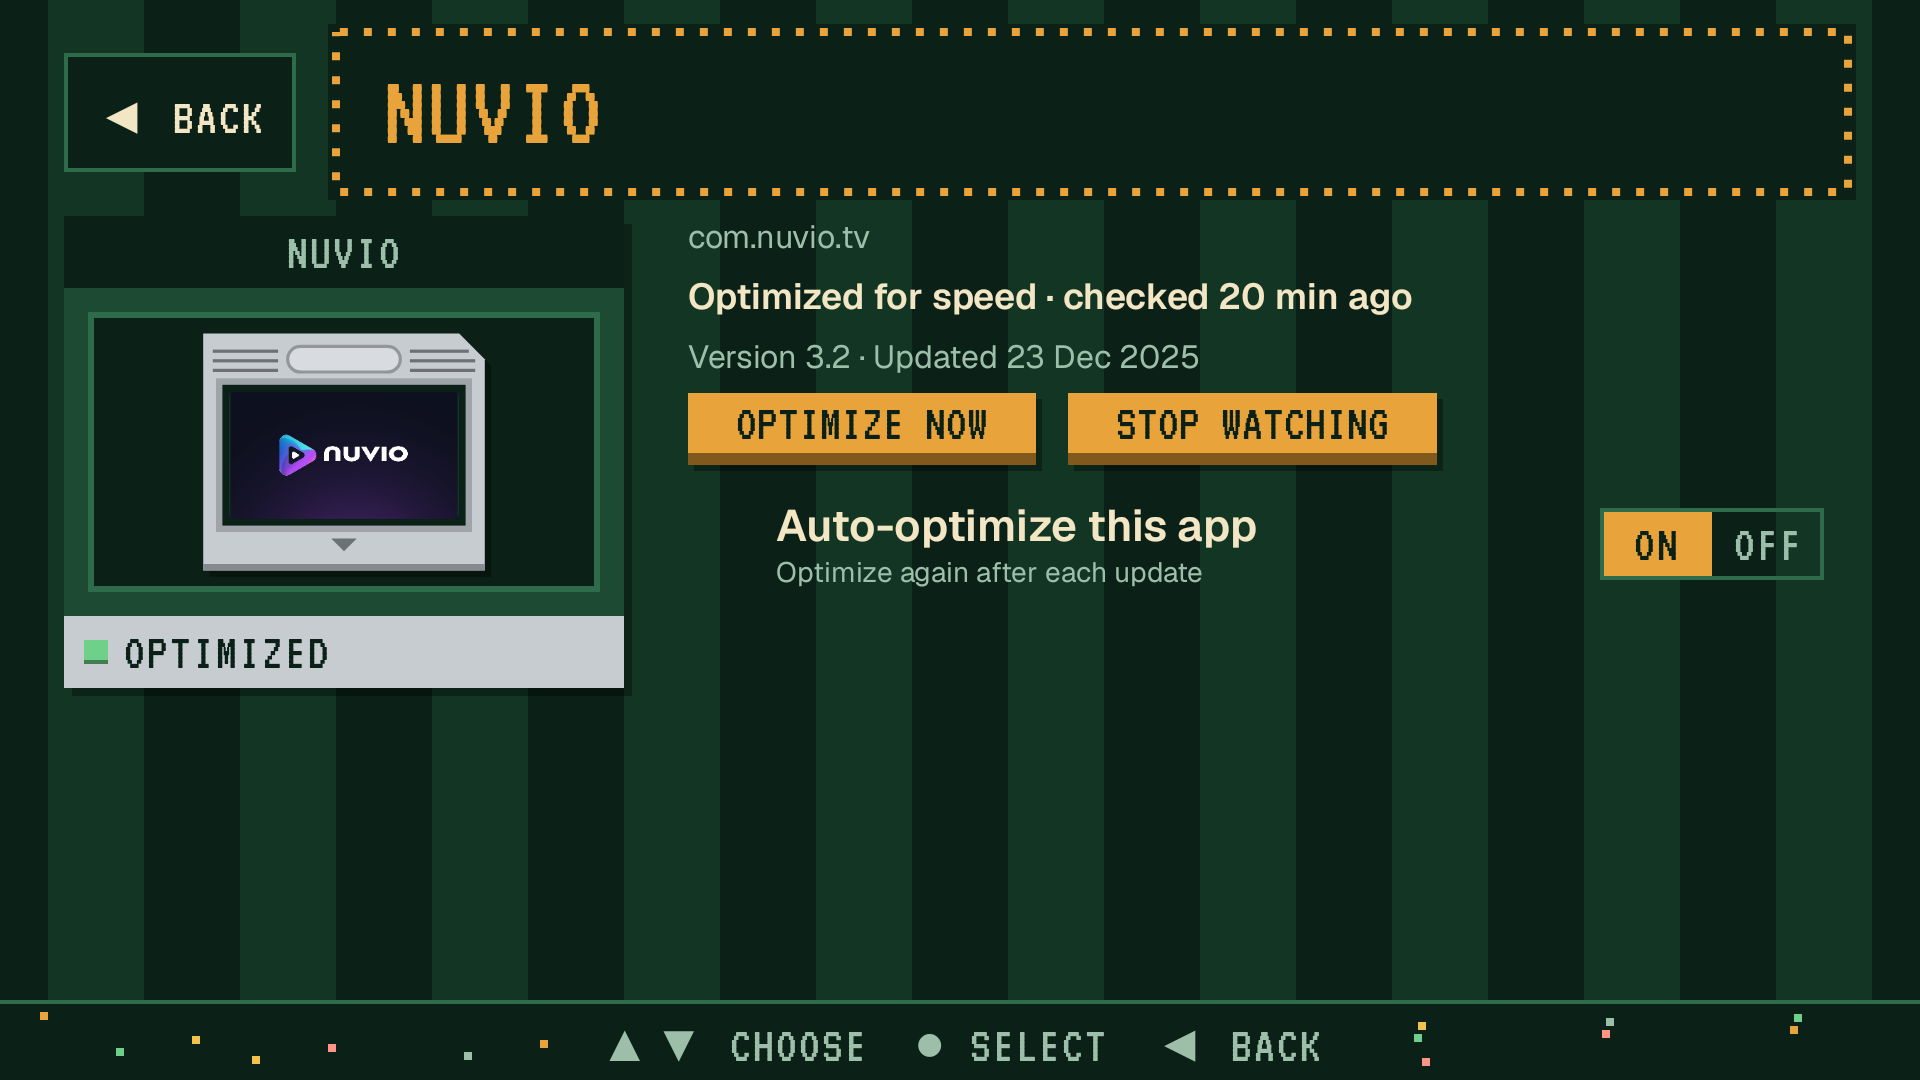
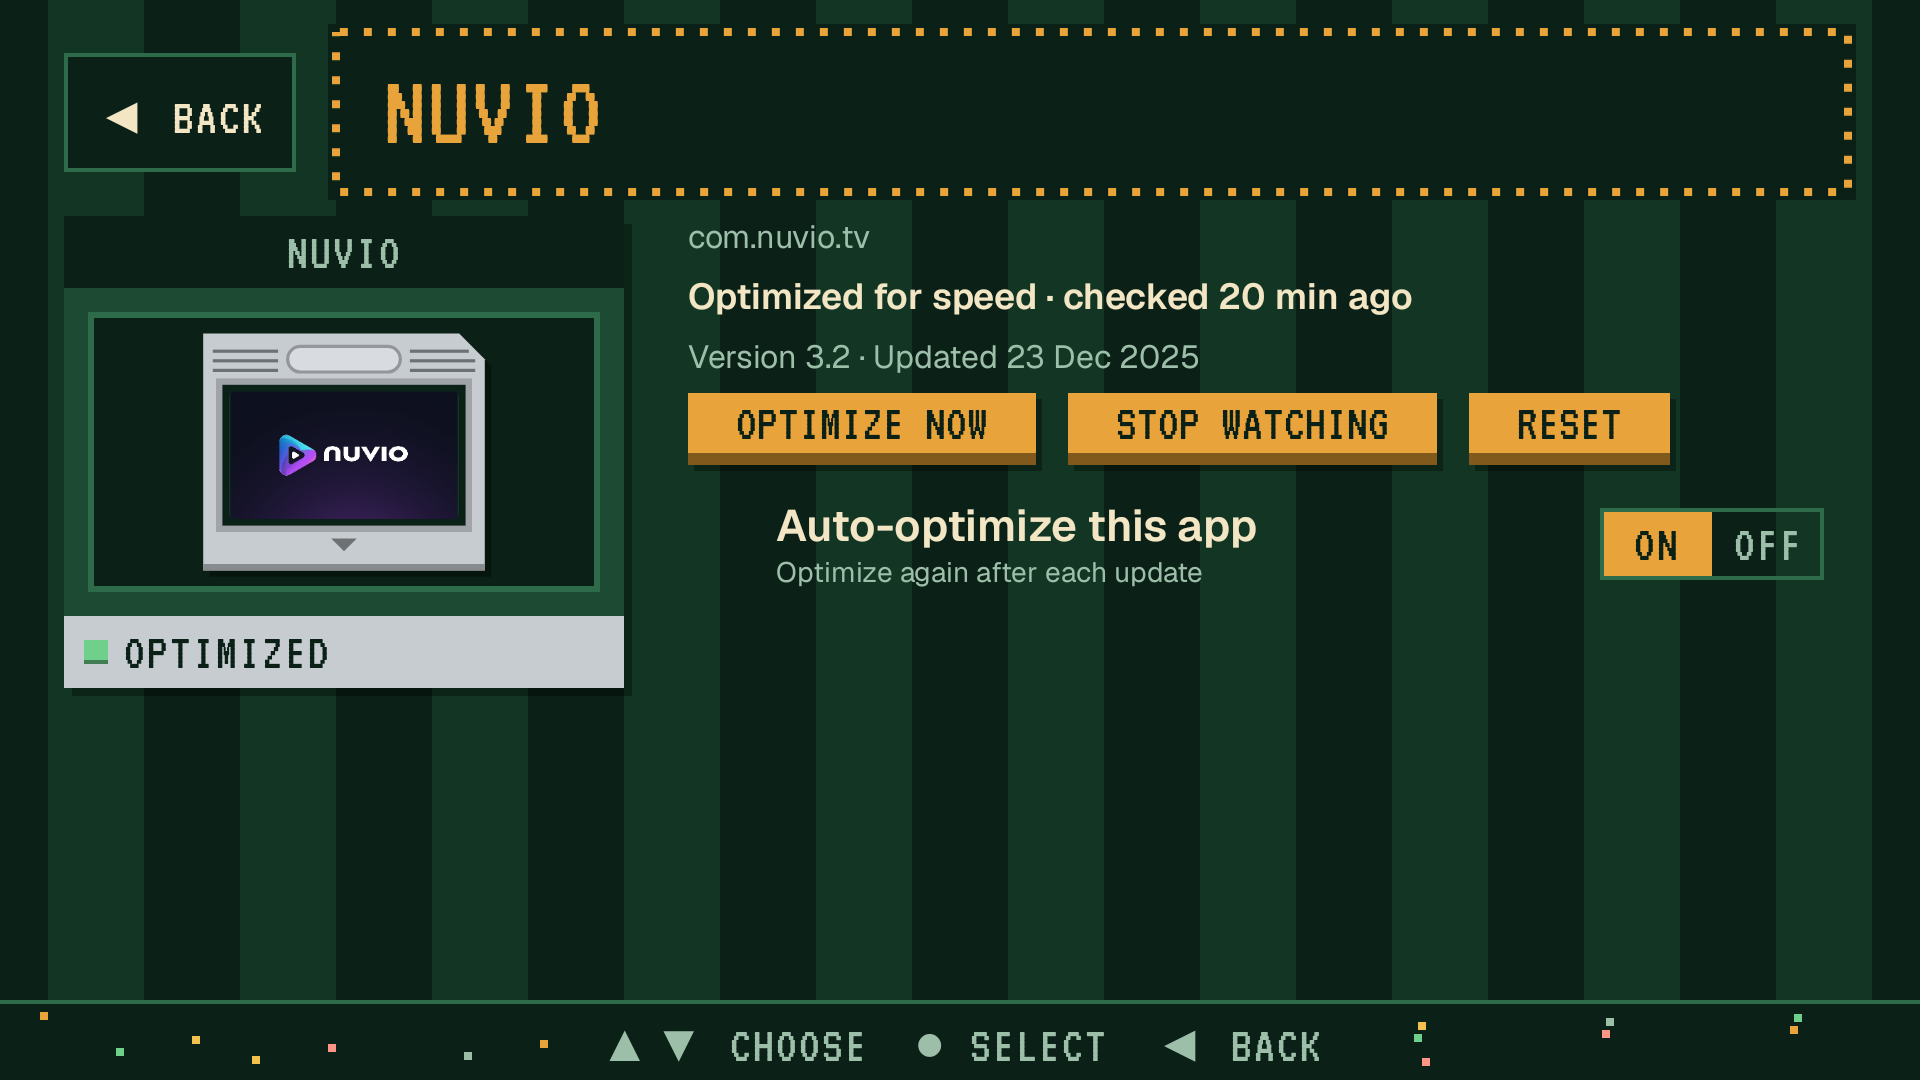
Reset and what speed compile does (B-05) (#13)
* Reset and what speed compile does (B-05)

Add resetCommand and Optimizer.reset (cmd package compile --reset), a Reset
button on App detail that resets and unwatches the app, and two Help entries
on what speed compile changes and how to undo it. Screenshot tests cover both.

* Reset with -r install so it works from shell before Android 14 (B-05)

* Reset: unwatch first, survive Back, ignore repeat presses, report timeouts; a reset app no longer reads as Compiled (B-05)

---------

Changed region(s): [[0.75, 0.3667, 0.875, 0.4278]]

diff --git a/app/src/main/kotlin/dev/speedcompiler/tv/ui/apps/AppDetailScreen.kt b/app/src/main/kotlin/dev/speedcompiler/tv/ui/apps/AppDetailScreen.kt
@@ -9,6 +9,11 @@ import androidx.compose.foundation.layout.size
 import androidx.compose.runtime.Composable
 import androidx.compose.runtime.collectAsState
 import androidx.compose.runtime.getValue
+import androidx.compose.runtime.mutableStateOf
+import androidx.compose.runtime.setValue
+import kotlinx.coroutines.CancellationException
+import kotlinx.coroutines.NonCancellable
+import kotlinx.coroutines.withContext
 import androidx.compose.runtime.produceState
 import androidx.compose.runtime.remember
 import androidx.compose.runtime.rememberCoroutineScope
@@ -57,16 +62,31 @@ fun AppDetailScreen(packageName: String, go: (String) -> Unit, onBack: () -> Uni
     val queue by remember(deps) { deps.scheduler.queue }.collectAsState(emptyList())
     val watched by remember(deps) { deps.watched }.collectAsState(emptyList())
     val history by remember(deps) { deps.scheduler.history }.collectAsState(emptyList())
+    val resets by remember(deps) { deps.resets }.collectAsState(emptyList())
     val now = rememberNow(deps)
     val scope = rememberCoroutineScope()
     val optimizeNow = rememberOptimizeNow(deps, go)
+    var resetNote by remember(packageName) { mutableStateOf<String?>(null) }
     val mine = watched.firstOrNull { it.packageName == packageName }
     AppDetailContent(
         loaded ?: AppInfo(packageName, packageName),
-        mine, optimizedAtMap(watched, history)[packageName], queue.firstOrNull { it.item.packageName == packageName }, now, deps.zone,
+        mine, optimizedAtMap(watched, history, resets)[packageName], queue.firstOrNull { it.item.packageName == packageName }, now, deps.zone,
         onOptimize = { optimizeNow(packageName) },
         onToggleWatch = { scope.launch { if (mine != null) deps.scheduler.unwatch(packageName) else deps.scheduler.watch(packageName) } },
         onAuto = { scope.launch { deps.setAutoOptimize(packageName, it) } },
+        onReset = {
+            if (resetNote != RESETTING) scope.launch {
+                resetNote = RESETTING
+                // Unwatch first so a queued compile cannot redo speed after the reset; NonCancellable so Back does not stop it halfway.
+                resetNote = try {
+                    withContext(NonCancellable) { deps.scheduler.unwatch(packageName); deps.reset(packageName) }.detail
+                } catch (e: Exception) {
+                    if (e is CancellationException) throw e
+                    "Didn't reset: ${e.message ?: "unexpected error"}."
+                }
+            }
+        },
+        resetNote = resetNote,
         onBack = onBack,
         runs = history.filter { it.packageName == packageName },
     )
@@ -85,6 +105,8 @@ fun AppDetailContent(
     onAuto: (Boolean) -> Unit,
     onBack: () -> Unit = {},
     runs: List<QueueItem> = emptyList(),
+    onReset: () -> Unit = {},
+    resetNote: String? = null,
 ) {
     val mem = rememberFocusMemory("optimize")
     val result = resultFor(entry, watched?.lastResult, optimizedAt)
@@ -125,7 +147,9 @@ fun AppDetailContent(
                     Row(horizontalArrangement = Arrangement.spacedBy(Space.x2)) {
                         ArcadeButton("Optimize now", onOptimize, Modifier.remembersFocus(mem, "optimize"))
                         ArcadeButton(if (watched != null) "Stop watching" else "Watch", onToggleWatch, Modifier.remembersFocus(mem, "watch"))
+                        ArcadeButton("Reset", onReset, Modifier.remembersFocus(mem, "reset"))
                     }
+                    if (resetNote != null) Text(resetNote, style = MaterialTheme.typography.bodyMedium)
                     if (watched != null) {
                         OperatorRow(
                             "Auto-optimize this app", onClick = { onAuto(!watched.autoOptimize) },
@@ -142,3 +166,5 @@ fun AppDetailContent(
         }
     }
 }
+
+private const val RESETTING = "Resetting..."

diff --git a/app/src/main/kotlin/dev/speedcompiler/tv/ui/apps/AppsModel.kt b/app/src/main/kotlin/dev/speedcompiler/tv/ui/apps/AppsModel.kt
@@ -3,6 +3,7 @@ package dev.speedcompiler.tv.ui.apps
 import android.content.Context
 import android.content.pm.ApplicationInfo
 import android.graphics.Bitmap
+import dev.speedcompiler.tv.engine.OptimizeResult
 import androidx.core.graphics.drawable.toBitmap
 import android.media.AudioManager
 import androidx.compose.runtime.Composable
@@ -17,6 +18,7 @@ import androidx.compose.ui.platform.LocalContext
 import dev.speedcompiler.tv.SpeedApp
 import dev.speedcompiler.tv.theme.Tone
 import dev.speedcompiler.tv.watch.Eta
+import dev.speedcompiler.tv.watch.Event
 import dev.speedcompiler.tv.watch.QueueEntry
 import dev.speedcompiler.tv.watch.QueueState
 import dev.speedcompiler.tv.watch.Scheduler
@@ -29,6 +31,7 @@ import java.time.ZoneId
 import java.time.format.DateTimeFormatter
 import kotlinx.coroutines.Dispatchers
 import kotlinx.coroutines.flow.Flow
+import kotlinx.coroutines.flow.flowOf
 import kotlinx.coroutines.withContext
 
 data class AppInfo(
@@ -51,6 +54,10 @@ class AppsDeps(
     val zone: ZoneId = ZoneId.systemDefault(),
     /** One package, for the detail screen; falls back to scanning the list. */
     val loadApp: suspend (String) -> AppInfo? = { p -> loadApps().firstOrNull { it.packageName == p } },
+    /** Undoes speed compile for one package. */
+    val reset: suspend (String) -> OptimizeResult = { OptimizeResult(false, "Didn't reset: not available.") },
+    /** Successful resets, so a reset app no longer reads as compiled. */
+    val resets: Flow<List<Event>> = flowOf(emptyList()),
 )
 
 /** The app's status word: live queue state first, then the stored result; a finished job with no stored result counts as Compiled. */
@@ -65,12 +72,13 @@ fun pillFor(entry: QueueEntry?, lastResult: String?, optimizedAt: Long?, now: Lo
     return (r.label + if (eta.isEmpty()) "" else " · $eta") to Tone.Warn
 }
 
-/** Latest optimize time per package, from the watched row or the newest finished job (covers unwatched apps). */
-fun optimizedAtMap(watched: List<WatchedApp>, history: List<QueueItem>): Map<String, Long> {
+/** Latest optimize time per package, from the watched row or the newest finished job (covers unwatched apps); a later Reset clears it. */
+fun optimizedAtMap(watched: List<WatchedApp>, history: List<QueueItem>, resets: List<Event> = emptyList()): Map<String, Long> {
     val m = mutableMapOf<String, Long>()
     fun put(p: String, t: Long?) { if (t != null && t > (m[p] ?: Long.MIN_VALUE)) m[p] = t }
     watched.forEach { put(it.packageName, it.lastOptimizedAt) }
     history.filter { it.state == QueueState.DONE }.forEach { put(it.packageName, it.finishedAt) }
+    resets.forEach { r -> val p = r.packageName ?: return@forEach; if ((m[p] ?: Long.MAX_VALUE) <= r.timeMillis) m.remove(p) }
     return m
 }
 
@@ -108,6 +116,8 @@ fun rememberAppsDeps(): AppsDeps {
             watched = dao.all(),
             musicActive = { context.getSystemService(AudioManager::class.java).isMusicActive },
             setAutoOptimize = dao::setAutoOptimize,
+            reset = { graph.optimizer.reset(it) },
+            resets = graph.database.events().resets(),
         )
     }
 }

diff --git a/app/src/test/kotlin/dev/speedcompiler/tv/ui/apps/AppsScreensTest.kt b/app/src/test/kotlin/dev/speedcompiler/tv/ui/apps/AppsScreensTest.kt
@@ -193,6 +193,23 @@ class AppsScreensTest : ComposeTestBase() {
     }
 
     @Test
+    fun resetRunsAndUnwatches() {
+        val reset = mutableListOf<String>()
+        watched.value = listOf(WatchedApp("a.alpha", "f"))
+        detailScreen(d = AppsDeps(
+            loadApps = { apps }, scheduler = scheduler, watched = watched, musicActive = { music },
+            setAutoOptimize = { _, _ -> }, now = { 1_800_000_000_000 },
+            reset = { reset += it; dev.speedcompiler.tv.engine.OptimizeResult(true, "Reset done.") },
+        ))
+        rule.onNodeWithText("Reset", ignoreCase = true).assertIsDisplayed()
+        rule.onRoot().captureRoboImage("build/outputs/roborazzi/app_detail_reset.png")
+        click("Reset")
+        assertEquals(listOf("a.alpha"), reset)
+        assertEquals(listOf("unwatch:a.alpha"), scheduler.calls)
+        rule.onNodeWithText("Reset done.").assertIsDisplayed()
+    }
+
+    @Test
     fun unwatchedDetailOffersWatch() {
         detailScreen()
         rule.onNodeWithText("Auto-optimize this app").assertDoesNotExist()
@@ -285,6 +302,17 @@ class AppsScreensTest : ComposeTestBase() {
         assertEquals(mapOf("a.alpha" to 80L), optimizedAtMap(listOf(WatchedApp("a.alpha", "f", lastOptimizedAt = 80)), listOf(done)))
     }
 
+    @Test
+    fun aLaterResetClearsCompiled() {
+        val done = dev.speedcompiler.tv.watch.QueueItem(
+            1, "a.alpha", dev.speedcompiler.tv.watch.QueueSource.MANUAL,
+            dev.speedcompiler.tv.watch.QueueState.DONE, enqueuedAt = 1, finishedAt = 50,
+        )
+        fun reset(at: Long) = dev.speedcompiler.tv.watch.Event(timeMillis = at, packageName = "a.alpha", kind = "reset_done", message = "")
+        assertEquals(emptyMap<String, Long>(), optimizedAtMap(emptyList(), listOf(done), listOf(reset(60))))
+        assertEquals(mapOf("a.alpha" to 50L), optimizedAtMap(emptyList(), listOf(done), listOf(reset(40)))) // optimized again after the reset
+    }
+
     private fun content(
         list: List<AppInfo> = apps, loading: Boolean = false, selecting: Boolean = false, picked: Set<String> = emptySet(),
         watchedNow: Map<String, WatchedApp> = emptyMap(), onWatch: (List<String>) -> Unit = {}, onQueue: (List<String>) -> Unit = {},
@@ -345,7 +373,7 @@ class AppsScreensTest : ComposeTestBase() {
     fun detailCardTakesNoFocus() {
         detailScreen()
         rule.onNodeWithContentDescription("Alpha, New").assertExists().assert(SemanticsMatcher.keyNotDefined(SemanticsProperties.Focused))
-        rule.onAllNodes(isFocusable()).assertCountEquals(3) // Back, Optimize now, Watch; not the card
+        rule.onAllNodes(isFocusable()).assertCountEquals(4) // Back, Optimize now, Watch, Reset; not the card
         rule.onAllNodesWithText("Optimize now", ignoreCase = true).assertCountEquals(1)
     }
 

diff --git a/app/src/test/kotlin/dev/speedcompiler/tv/OptimizerTest.kt b/app/src/test/kotlin/dev/speedcompiler/tv/OptimizerTest.kt
@@ -7,6 +7,7 @@ import dev.speedcompiler.tv.engine.FakeClock
 import dev.speedcompiler.tv.engine.OptimizerImpl
 import dev.speedcompiler.tv.engine.compileCommand
 import dev.speedcompiler.tv.engine.parseCompilerFilter
+import dev.speedcompiler.tv.engine.resetCommand
 import dev.speedcompiler.tv.watch.Event
 import dev.speedcompiler.tv.watch.EventDao
 import kotlinx.coroutines.CompletableDeferred
@@ -35,6 +36,7 @@ class OptimizerTest {
     private class Events : EventDao {
         val rows = mutableListOf<Event>()
         override fun recent(limit: Int): Flow<List<Event>> = emptyFlow()
+        override fun resets(): Flow<List<Event>> = emptyFlow()
         override suspend fun insert(event: Event) { rows += event }
         override suspend fun pruneBefore(before: Long) { rows.removeAll { it.timeMillis < before } }
     }
@@ -165,6 +167,36 @@ class OptimizerTest {
     @Test fun rejectsBadIdInCommand() {
         assertEquals("cmd package compile -m speed -f com.a_b", compileCommand("com.a_b"))
         assertTrue(runCatching { compileCommand("a b") }.isFailure)
+    }
+
+    @Test fun resetCommandIsValidatedLikeCompile() {
+        assertEquals("cmd package compile -r install -f com.a_b", resetCommand("com.a_b"))
+        listOf("a b", "", "a;b", "a\nb", "a\$(x)", "a/b", "a-b").forEach {
+            assertTrue(it, runCatching { compileCommand(it) }.isFailure)
+            assertTrue(it, runCatching { resetCommand(it) }.isFailure)
+        }
+    }
+
+    @Test fun resetRunsTheCommandAndReportsTheOutcome() = runTest {
+        val shell = Shell()
+        val ev = Events()
+        val r = impl(shell, ev).reset("dev.speedcompiler.tv")
+        assertTrue(r.ok)
+        assertEquals(1, shell.compiles)
+        assertEquals("reset_done", ev.rows.single().kind)
+        val bad = impl(Shell(compile = "Failure\n__rc=1\n"), Events()).reset("dev.speedcompiler.tv")
+        assertFalse(bad.ok)
+        assertTrue(bad.detail.startsWith("Didn't reset"))
+        assertFalse(impl(shell, Events()).reset("a b").ok)
+        assertEquals(1, shell.compiles)
+    }
+
+    @Test fun resetTimesOutAsAFailure() = runTest {
+        val ev = Events()
+        val r = impl(Shell(compileDelay = 1_000), ev, timeout = 100).reset("dev.speedcompiler.tv")
+        assertFalse(r.ok)
+        assertTrue(r.detail.startsWith("Didn't reset"))
+        assertEquals("reset_failed", ev.rows.single().kind)
     }
 
     @Test fun timesOut() = runTest {

diff --git a/app/src/main/kotlin/dev/speedcompiler/tv/engine/OptimizerImpl.kt b/app/src/main/kotlin/dev/speedcompiler/tv/engine/OptimizerImpl.kt
@@ -53,6 +53,33 @@ class OptimizerImpl(
         return text
     }
 
+    override suspend fun reset(packageName: String): OptimizeResult {
+        if (!isValidPackageId(packageName)) return finish(null, false, "Didn't reset: that is not a valid app name.", "reset_failed")
+        val res = try {
+            withTimeout(timeoutMillis) { shell.run(resetCommand(packageName)) }
+        } catch (e: TimeoutCancellationException) {
+            return finish(packageName, false, "Didn't reset: the TV took too long.", "reset_failed")
+        } catch (e: CancellationException) {
+            throw e
+        } catch (e: AdbFailure.NotPaired) {
+            return finish(packageName, false, "Didn't reset: the TV no longer trusts this app. Choose Fix connection in Settings.", "reset_failed", terminal = true)
+        } catch (e: AdbFailure.NotAuthorized) {
+            return finish(packageName, false, "Didn't reset: the TV has not allowed this app. Accept the debugging prompt on the TV.", "reset_failed", terminal = true)
+        } catch (e: Exception) {
+            return finish(packageName, false, "Didn't reset: lost the connection to the TV.", "reset_failed", connectionLost = true)
+        } finally {
+            synchronized(dumpLock) { // the reset changes what a dump says
+                dumpGeneration++
+                dump = null
+            }
+        }
+        if (res.exitCode > 0 || !compileSucceeded(res.output)) {
+            val said = scrub(res.output.lineSequence().firstOrNull { it.isNotBlank() }?.trim())?.take(120)
+            return finish(packageName, false, "Didn't reset: the TV refused." + said?.let { " It said: $it" }.orEmpty(), "reset_failed")
+        }
+        return finish(packageName, true, "Reset done. The TV chooses how to run this app again.", "reset_done")
+    }
+
     private suspend fun compile(pkg: String): OptimizeResult {
         val res = try {
             withTimeout(timeoutMillis) { shell.run(compileCommand(pkg)) }

diff --git a/app/src/main/kotlin/dev/speedcompiler/tv/ui/apps/AppsScreen.kt b/app/src/main/kotlin/dev/speedcompiler/tv/ui/apps/AppsScreen.kt
@@ -142,11 +142,12 @@ fun AppsScreen(go: (String) -> Unit, onBack: () -> Unit, deps: AppsDeps = rememb
     val queue by remember(deps) { deps.scheduler.queue }.collectAsState(emptyList())
     val watched by remember(deps) { deps.watched }.collectAsState(emptyList())
     val history by remember(deps) { deps.scheduler.history }.collectAsState(emptyList())
+    val resets by remember(deps) { deps.resets }.collectAsState(emptyList())
     val now = rememberNow(deps)
     val scope = rememberCoroutineScope()
     val optimizeNow = rememberOptimizeNow(deps, go)
     AppsContent(
-        loaded.orEmpty(), queue.associateBy { it.item.packageName }, watched.associateBy { it.packageName }, optimizedAtMap(watched, history), now, deps.zone,
+        loaded.orEmpty(), queue.associateBy { it.item.packageName }, watched.associateBy { it.packageName }, optimizedAtMap(watched, history, resets), now, deps.zone,
         onOpen = { go(Routes.appDetail(it)) },
         onOptimize = optimizeNow,
         onQueue = { pkg -> scope.launch { deps.scheduler.enqueue(pkg, QueueSource.MANUAL) } },

diff --git a/app/src/main/kotlin/dev/speedcompiler/tv/ui/help/HelpScreen.kt b/app/src/main/kotlin/dev/speedcompiler/tv/ui/help/HelpScreen.kt
@@ -43,6 +43,8 @@ val helpEntries = listOf(
     HelpEntry("The TV did not answer", "Wireless debugging may have switched off. Reconnect, and if that fails turn it on again in Developer options.", Fix.Retry),
     HelpEntry("Optimizing did not finish", "The TV stopped or refused the job. Try again when the TV is idle."),
     HelpEntry("Optimized, but not checked", "This TV does not report the result. The app may still start faster."),
+    HelpEntry("What speed compile changes", "It uses more storage. The first launch after an app update is slower again until the app is optimized again. Results vary by app and TV."),
+    HelpEntry("How to undo it", "Open the app in Apps and choose Reset. Uninstalling Speed Compile does not undo it."),
     HelpEntry("The pairing code did not work", "Pairing codes expire. Get a new code on the TV and type all 6 digits."),
 )
 

diff --git a/app/src/test/kotlin/dev/speedcompiler/tv/ui/help/HelpScreenTest.kt b/app/src/test/kotlin/dev/speedcompiler/tv/ui/help/HelpScreenTest.kt
@@ -32,6 +32,13 @@ class HelpScreenTest : ComposeTestBase() {
         rule.onNodeWithText("Wireless debugging may have switched off. Reconnect, and if that fails turn it on again in Developer options.").assertIsDisplayed()
     }
 
+    @Test fun explainsWhatSpeedCompileChangesAndHowToUndoIt() {
+        rule.setContent { SpeedTheme { HelpContent(go = {}) } }
+        rule.onNodeWithText("What speed compile changes").assertIsDisplayed()
+        rule.onNodeWithText("How to undo it").assertIsDisplayed()
+        rule.onRoot().captureRoboImage("build/outputs/roborazzi/help_speed_compile.png")
+    }
+
     @Test fun everyFixRoutesToItsDestination() {
         assertEquals(Routes.QuickRepair, fixRoute(Fix.QuickRepair))
         listOf(Fix.TurnOnWirelessDebugging, Fix.AllowPrompt, Fix.Retry).forEach { assertEquals(Routes.Reconnect, fixRoute(it)) }

diff --git a/app/src/main/kotlin/dev/speedcompiler/tv/engine/DexoptParsers.kt b/app/src/main/kotlin/dev/speedcompiler/tv/engine/DexoptParsers.kt
@@ -14,6 +14,13 @@ fun compileCommand(pkg: String): String {
     return "cmd package compile -m speed -f $pkg"
 }
 
+/** Undoes [compileCommand]: the TV goes back to its own compile choice for the app. Throws on an invalid id. */
+fun resetCommand(pkg: String): String {
+    require(isValidPackageId(pkg)) { "invalid package id" }
+    // --reset needs the system uid before Android 14; recompiling for the install reason works from shell on 30 to 34
+    return "cmd package compile -r install -f $pkg"
+}
+
 fun artDumpCommand(pkg: String): String {
     require(isValidPackageId(pkg)) { "invalid package id" }
     return "pm art dump $pkg"

diff --git a/app/src/main/kotlin/dev/speedcompiler/tv/engine/Engine.kt b/app/src/main/kotlin/dev/speedcompiler/tv/engine/Engine.kt
@@ -17,6 +17,9 @@ interface Optimizer {
 
     /** The compiler filter the TV reports for [packageName], or null when unknown. */
     suspend fun verify(packageName: String): String? = null
+
+    /** Puts [packageName] back to the TV's own compile state. */
+    suspend fun reset(packageName: String): OptimizeResult = OptimizeResult(false, "Didn't reset: not supported here.")
 }
 
 /** Why the gate is open or closed. Only [OpensAt] carries a clock time, taken from the user's set hours. */

diff --git a/app/src/main/kotlin/dev/speedcompiler/tv/watch/Db.kt b/app/src/main/kotlin/dev/speedcompiler/tv/watch/Db.kt
@@ -121,6 +121,9 @@ interface EventDao {
     @Query("SELECT * FROM event ORDER BY timeMillis DESC LIMIT :limit")
     fun recent(limit: Int): Flow<List<Event>>
 
+    @Query("SELECT * FROM event WHERE kind = 'reset_done'")
+    fun resets(): Flow<List<Event>>
+
     @Insert
     suspend fun insert(event: Event)
 
